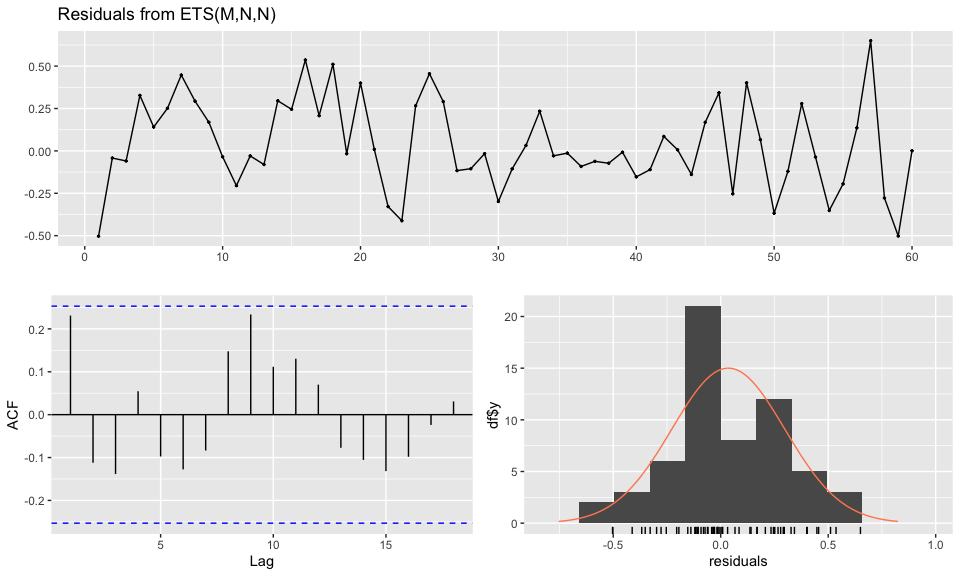
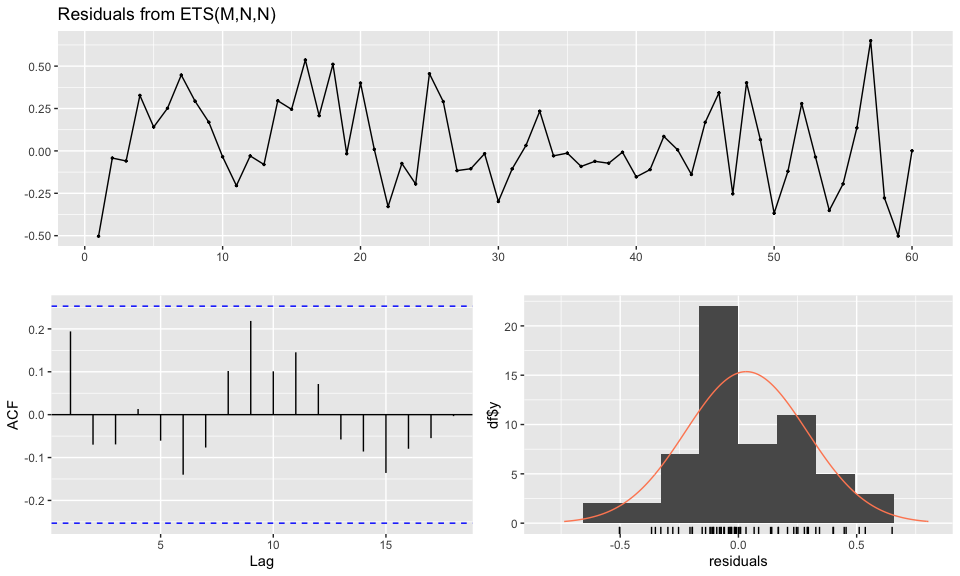
daily upate

diff --git a/kenai_sockeye_counts.md b/kenai_sockeye_counts.md
@@ -2,7 +2,7 @@ Kenai River Sockeye Salmon Count Forecasting: Daily Fish Count
 Predictions
 ================
 Joe Hicks
-updated: 2025-07-23
+updated: 2025-07-24
 
 - [Summary](#summary)
 - [Data Loading & Preparation](#data-loading--preparation)
@@ -158,11 +158,11 @@ peak_days |>
 |         8 | 2025-07-18 |        199 |     70256 | High Peaks     |
 |         9 | 2025-07-19 |        200 |     69080 | High Peaks     |
 |        10 | 2025-07-22 |        203 |     65574 | High Peaks     |
-|        11 | 2025-08-02 |        214 |     57054 | Moderate Peaks |
-|        12 | 2025-08-03 |        215 |     55390 | Moderate Peaks |
-|        13 | 2025-08-04 |        216 |     54668 | Moderate Peaks |
-|        14 | 2025-08-18 |        230 |     53227 | Moderate Peaks |
-|        15 | 2025-07-30 |        211 |     50099 | Moderate Peaks |
+|        11 | 2025-07-23 |        204 |     60709 | Moderate Peaks |
+|        12 | 2025-08-02 |        214 |     57054 | Moderate Peaks |
+|        13 | 2025-08-03 |        215 |     55390 | Moderate Peaks |
+|        14 | 2025-08-04 |        216 |     54668 | Moderate Peaks |
+|        15 | 2025-08-18 |        230 |     53227 | Moderate Peaks |
 
 Top 15 Historical Peak Days
 
@@ -195,7 +195,7 @@ tidy(ets_model) |>
 
 | method     |     aic | sigma2 |  loglik |
 |:-----------|--------:|-------:|--------:|
-| ETS(M,N,N) | 1335.15 |   0.07 | -664.58 |
+| ETS(M,N,N) | 1333.14 |   0.07 | -663.57 |
 
 ETS Model Summary
 
@@ -210,7 +210,7 @@ checkresiduals(ets_model)
     ##  Ljung-Box test
     ## 
     ## data:  Residuals from ETS(M,N,N)
-    ## Q* = 14.348, df = 10, p-value = 0.1577
+    ## Q* = 10.014, df = 10, p-value = 0.4393
     ## 
     ## Model df: 0.   Total lags used: 10
 
@@ -405,11 +405,11 @@ predicted_peaks_updated |>
 
 | peak_rank | date_2025 | month_day | predicted_count | adjusted_prediction | data_status |
 |---:|:---|:---|---:|---:|:---|
-| 1 | 2025-07-27 | 07-27 | 91783 | 259861 | Future prediction |
-| 2 | 2025-07-21 | 07-21 | 247093 | 247093 | Observed 2025 |
-| 3 | 2025-07-28 | 07-28 | 81110 | 229644 | Future prediction |
-| 4 | 2025-07-29 | 07-29 | 72585 | 205507 | Future prediction |
-| 5 | 2025-07-30 | 07-30 | 71401 | 202155 | Future prediction |
+| 1 | 2025-07-27 | 07-27 | 91783 | 317769 | Future prediction |
+| 2 | 2025-07-28 | 07-28 | 81110 | 280818 | Future prediction |
+| 3 | 2025-07-29 | 07-29 | 72585 | 251302 | Future prediction |
+| 4 | 2025-07-30 | 07-30 | 71401 | 247203 | Future prediction |
+| 5 | 2025-07-21 | 07-21 | 247093 | 247093 | Observed 2025 |
 
 Top 5 Predicted Peak Days for 2025
 
@@ -616,6 +616,6 @@ kable(true_accuracy_metrics)
 
 | n_observations | mean_abs_error | median_abs_error | mean_pct_error |  rmse |
 |---------------:|---------------:|-----------------:|---------------:|------:|
-|             22 |          42742 |            15999 |           54.8 | 63821 |
+|             23 |          47303 |            17823 |           55.7 | 69599 |
 
 ------------------------------------------------------------------------
